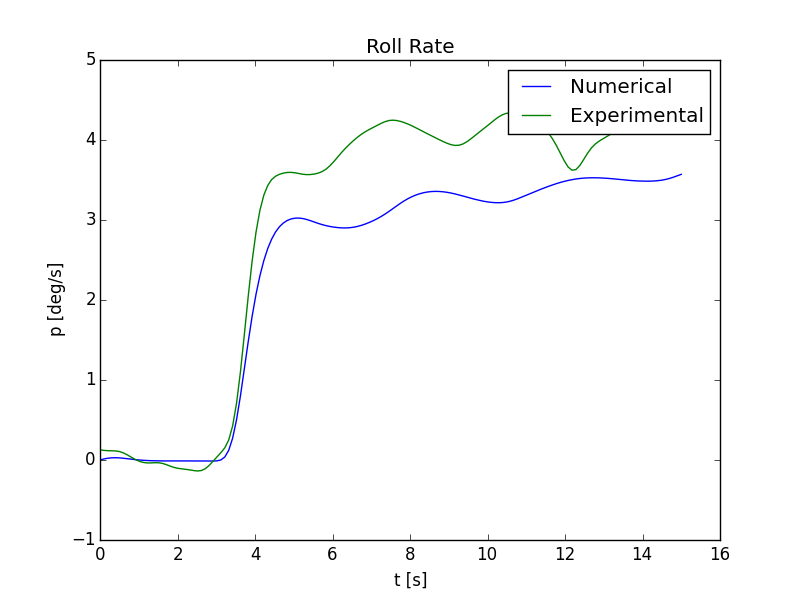
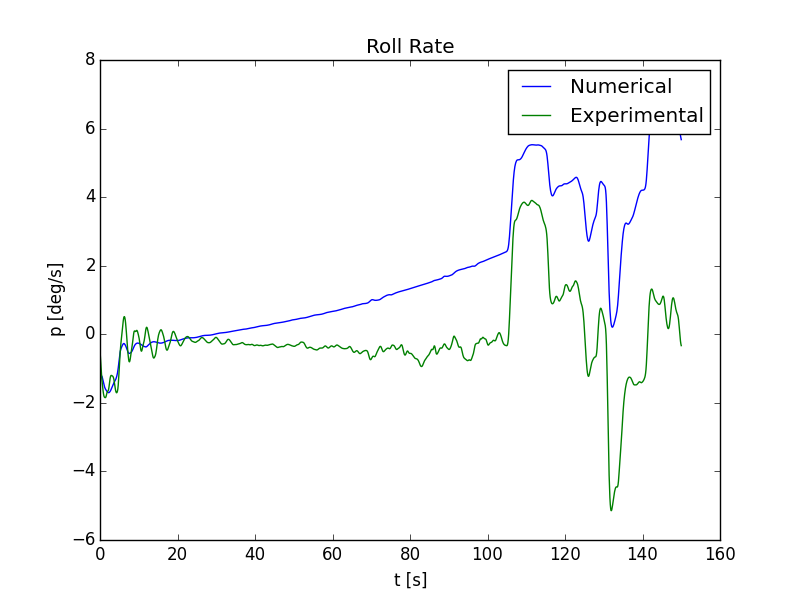
Beep Boop ik ben een robot

diff --git a/Data_cruncher.py b/Data_cruncher.py
@@ -59,8 +59,11 @@ class Motion:
         self.PitchAngle0                        =       np.average(self.PitchAngle[0:25])
         self.PitchRate                          =       pitch_rate[self.index:self.index+(mt/step)]
         self.RollRate                           =       roll_rate[self.index:self.index+(mt/step)]
+        self.RollRate0                          =       np.average(self.RollRate[0:25])
         self.RollAngle                          =       roll_angle[self.index:self.index+(mt/step)]
+        self.RollAngle0                         =       np.average(self.RollAngle[0:25])
         self.YawRate                            =       yaw_rate[self.index:self.index+(mt/step)]
+        self.YawRate0                           =       np.average(self.YawRate[0:25])
         self.rho,self.muc,self.mub,self.CL,self.CD,self.CX0,self.CZ0        =       kutmaarten(self.V0, self.AoA0, self.PitchAngle0, self.weight, self.height0)                              
 #symetric motions
 
@@ -87,7 +90,7 @@ DutchRollY    =   Motion(DutchRollY_time, DutchRollY_mt)
 
 #aper roll
 APR_time        =   3600.*1. + 60.*19. + 10.
-APR_mt          =   15
+APR_mt          =   50
 AperiodicRollP  =   Motion(APR_time, APR_mt)
 
 

diff --git a/Numerical_Analysis_assymettric.py b/Numerical_Analysis_assymettric.py
@@ -71,11 +71,14 @@ def Asymetric(name):
     
     y2 += 0
     y3 += 0
-    y4 += 0
     
-    y2 = y2*(180/np.pi)
-    y3 = y3*(180/np.pi)
-    y4 = y4*(180/np.pi)
+    
+    y2 *= (180/np.pi)
+    y3 *= (180/np.pi)
+    y4 *= (180/np.pi)
+    y2 += name.RollAngle0
+    y3 += name.RollRate0
+    y4 += name.YawRate0
     
     #plotting the total grpahs
     plt.figure(0)

diff --git a/Numerical_Analysis_Symetric.py b/Numerical_Analysis_Symetric.py
@@ -9,7 +9,7 @@ import control.matlab as cs
 import matplotlib.pyplot as plt
 from Data_cruncher import *
 
-namem = "Phugoid"
+namem = "Spiral"
 
 def Symetric(name):
     print name
